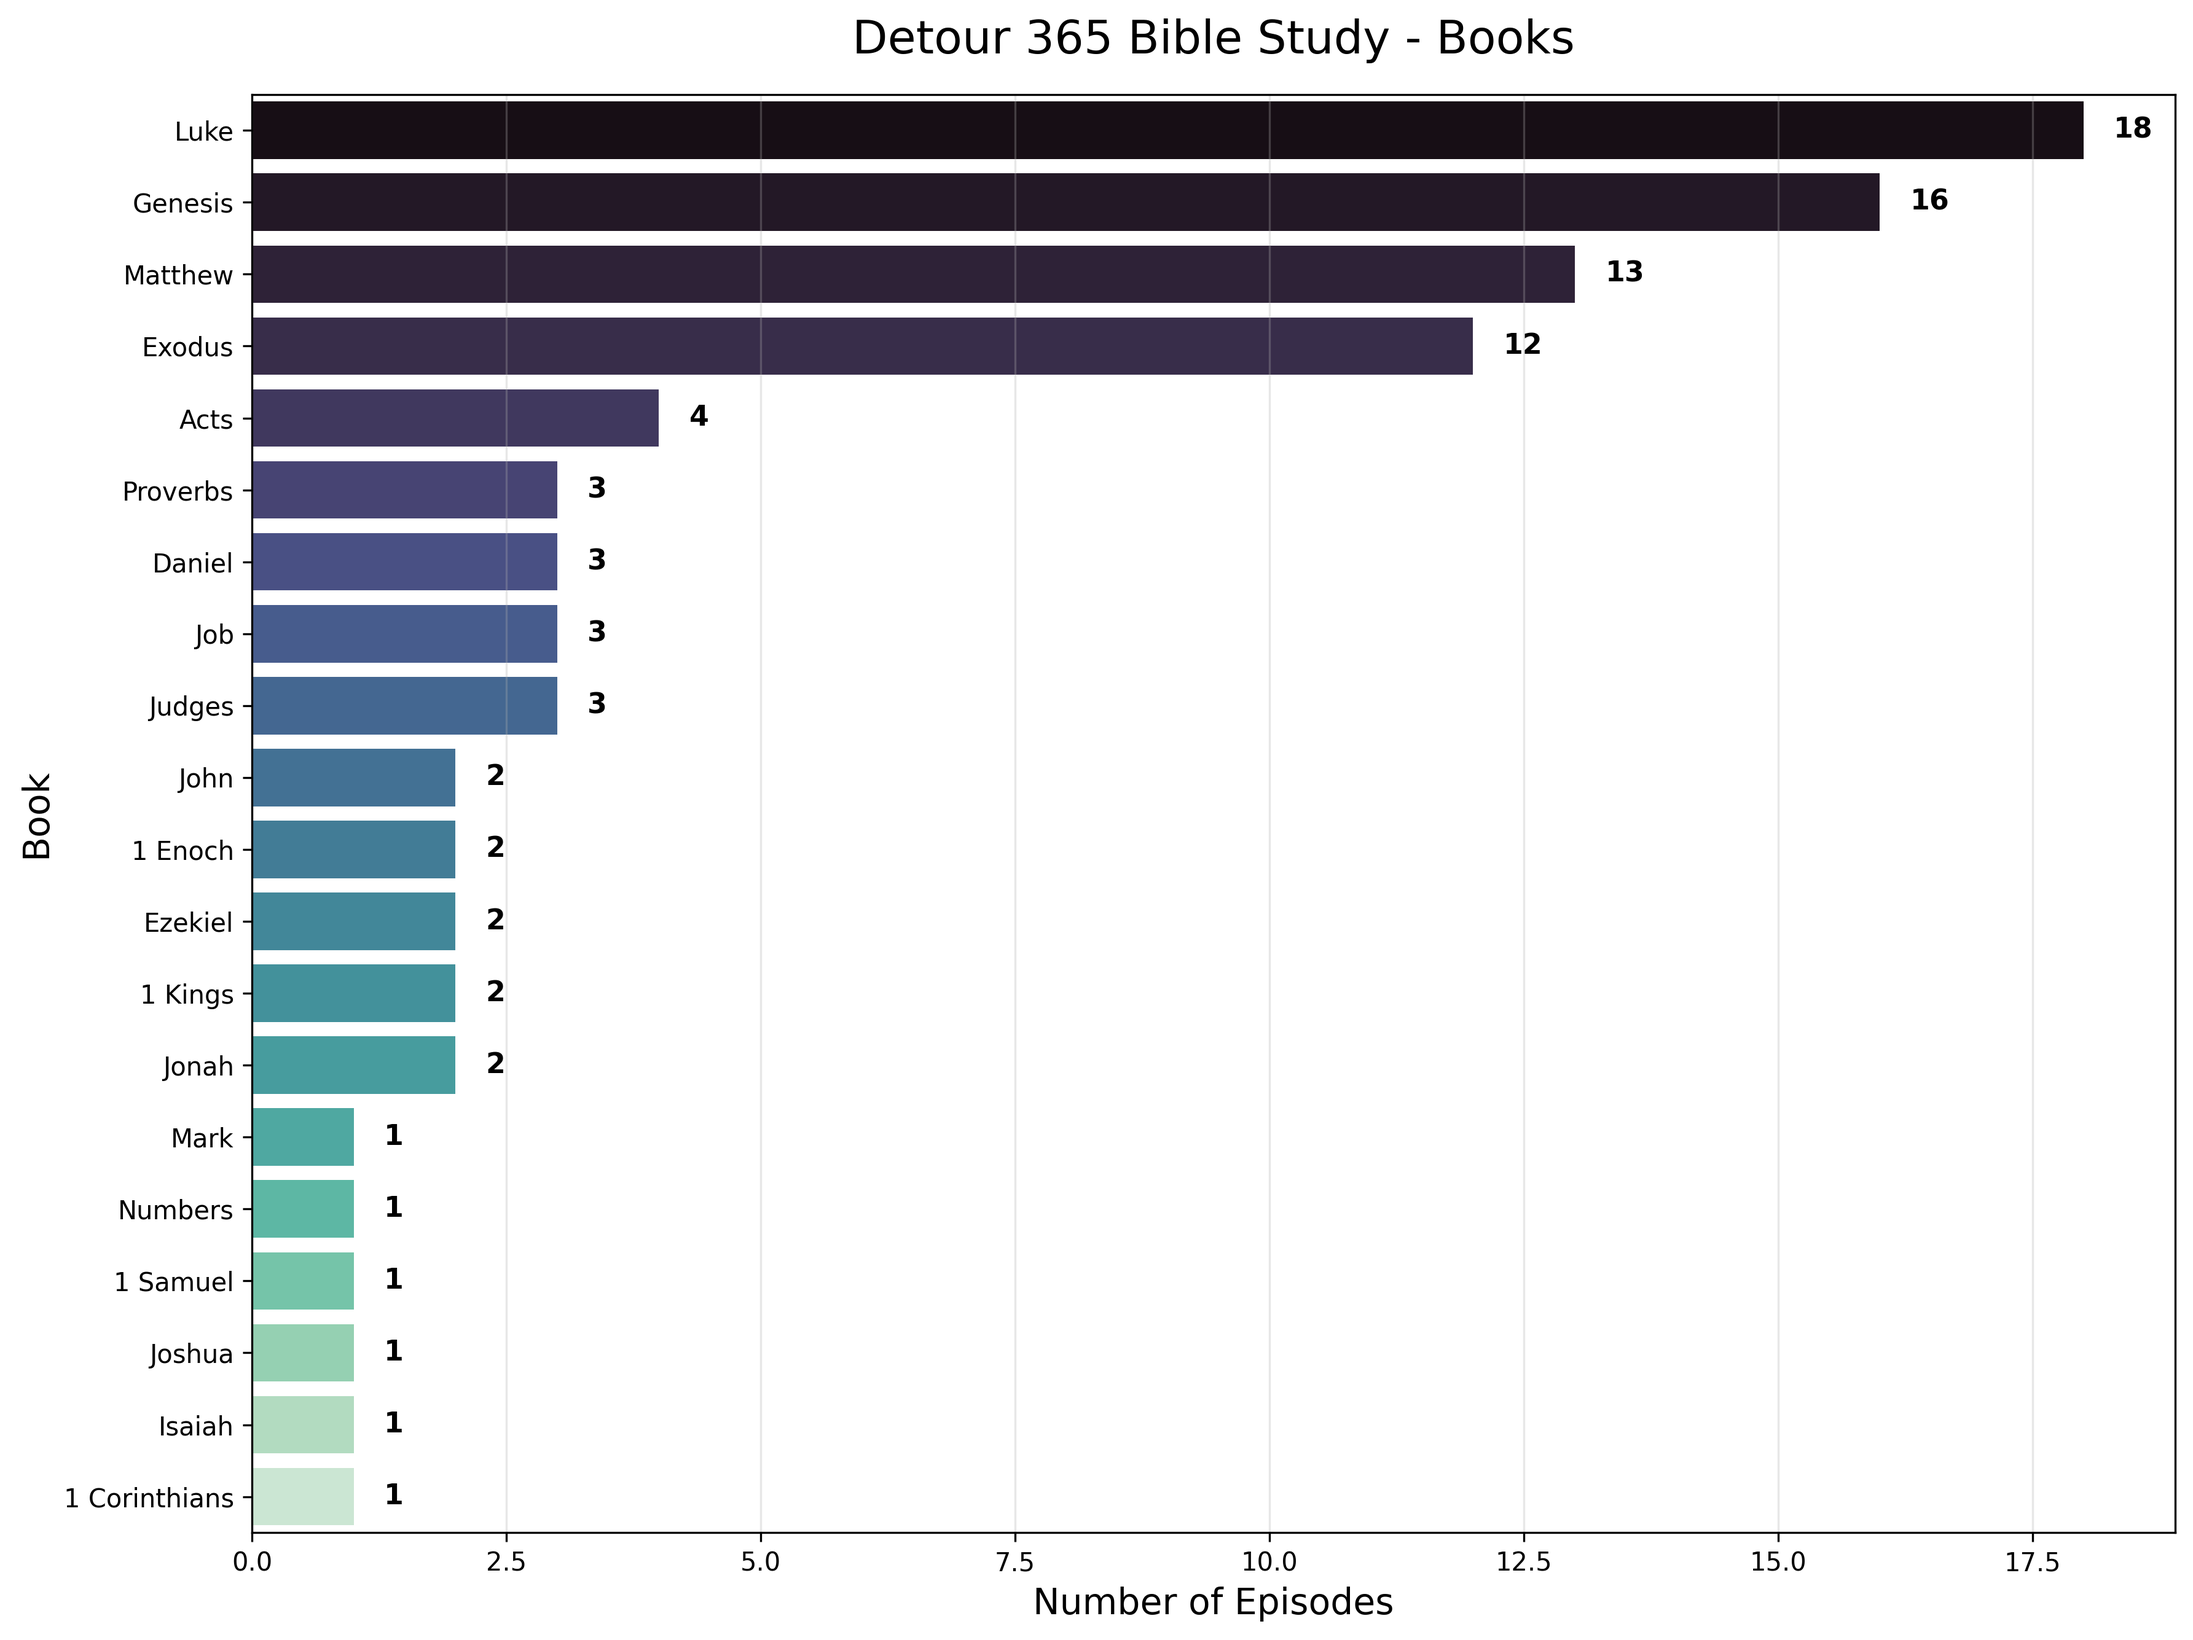
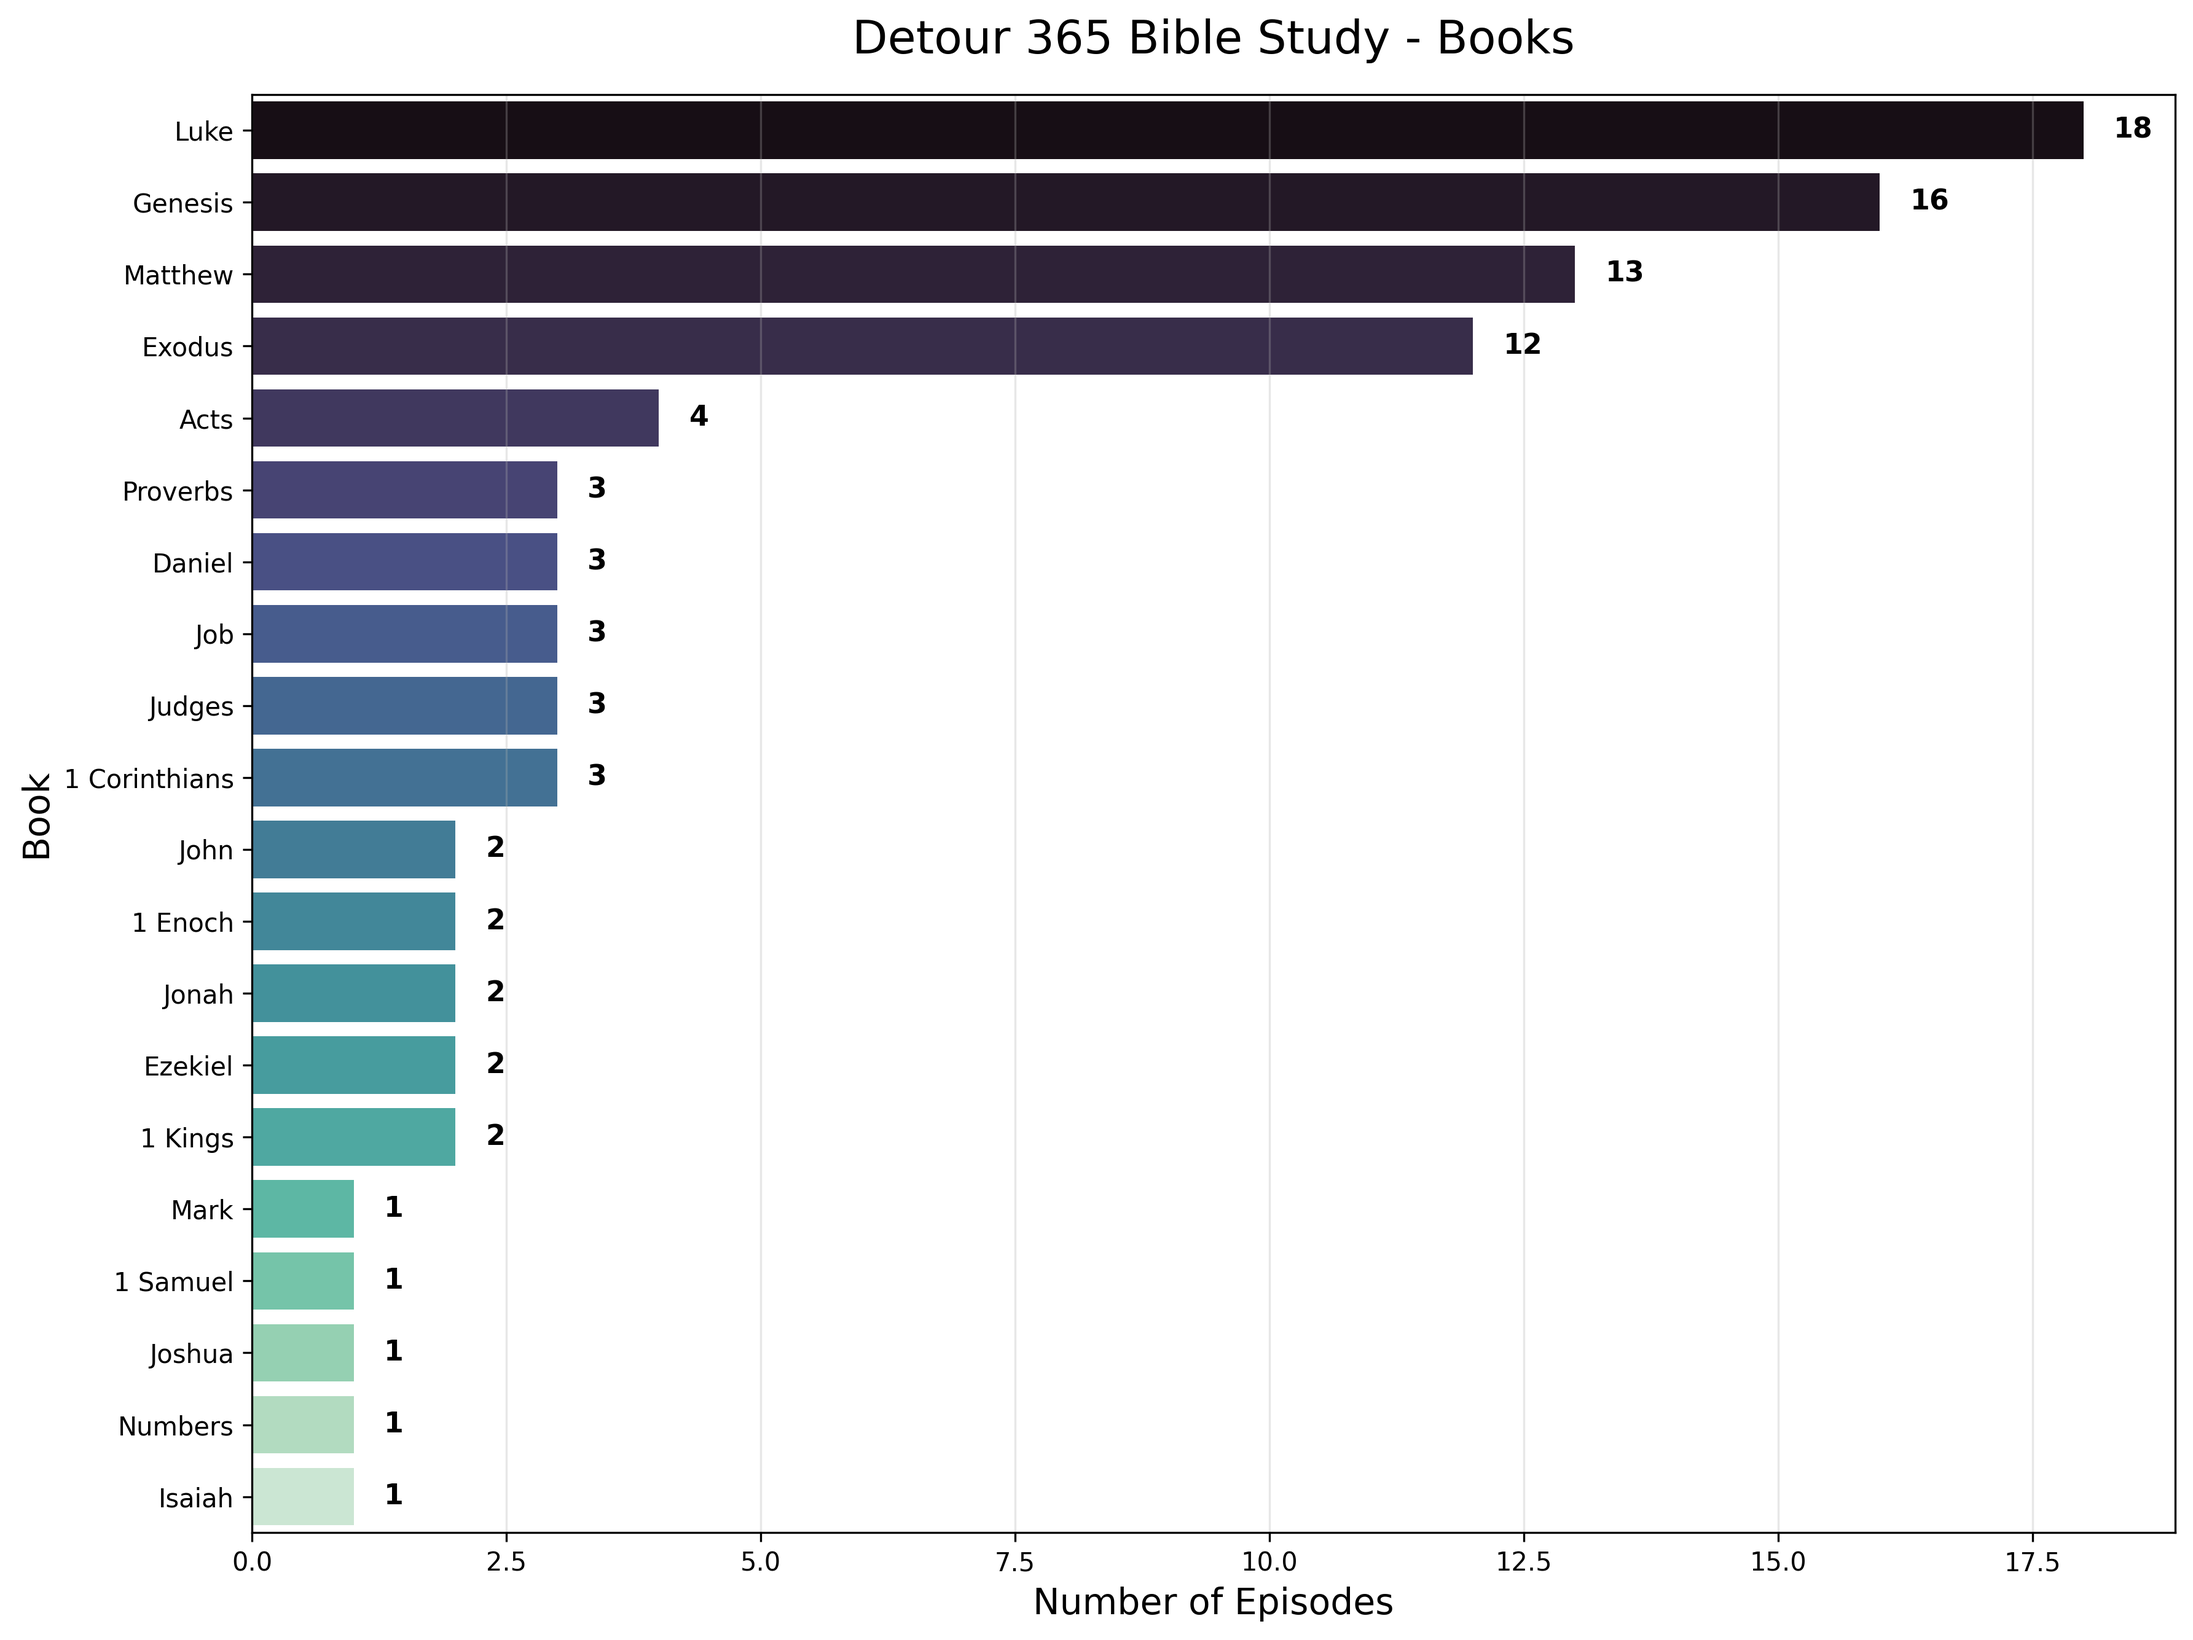
added total youtube views feature + created python/youtube_stats.py

diff --git a/js/stats.js b/js/stats.js
@@ -1,0 +1,26 @@
+/* js/stats.js */
+
+const total_youtube_views = document.getElementById('total_yt_views');
+
+export async function display_views() {
+    if (!total_youtube_views) return;
+
+    try {
+        const response = await fetch('data/d365_yt_stats.json');
+        if (!response.ok) {
+            throw new Error('Failed to load data');
+        }
+
+        const data = await response.json();
+        const views = Number(data.viewCount).toLocaleString();
+        total_youtube_views.textContent = `Total Youtube Views: ${views}`;
+    } catch (error) {
+        console.log(error);
+    }
+}
+
+if (document.readyState === 'loading') {
+    document.addEventListener('DOMContentLoaded', display_views);
+} else {
+    display_views();
+}

diff --git a/stats.html b/stats.html
@@ -37,6 +37,13 @@
  
     <main class="main-container">
         <div class="figure-group-div">
+            <div id="viewsDiv">
+                <ul>
+                    <li id="total_yt_views">Total YouTube Views: </li>
+                    <li id="total_website_view">Total Website View: </li>
+                    <li id="total_views">Total Views: </li>
+                </ul>
+            </div>
         <figure class="figure">
             <img
                 class="figure-image" 
@@ -70,6 +77,7 @@
 
 
 <script type="module" src="js/script.js"></script>
+<script type="module" src="js/stats.js"></script>
 
 
 </body>

diff --git a/python/stats.py b/python/stats.py
@@ -1,32 +1,42 @@
-import pandas as pd
+# python/stats/py
+
 import datetime as dt
+import os
 import re
-import matplotlib.pyplot as plt
-import seaborn as sns
 from pathlib import Path
+
+import matplotlib.pyplot as plt
+import pandas as pd
+import seaborn as sns
+from dotenv import load_dotenv
+
+from youtube_stats import YTstats
 
 
 class BibleStudyStats:
-    """Analyze Detour 365 podcast episodes and generate Bible book/category charts."""
+    """
+    - Analyze Detour 365 podcast episodes and generate Bible book/category charts.
+    - Engagement stats: fetch channel views from YouTube Data API.
+    """
 
     def __init__(
         self,
         podcast_path: str | Path = "../data/podcast.json",
         bible_path: str | Path = "../data/bible_books.csv",
+        yt_data_path: str | Path = "../data/d365_yt_stats.json",
         plots_dir: str | Path = "../plots",
     ):
-        # Resolve all paths relative to *this script file*
         script_dir = Path(__file__).resolve().parent
 
         self.podcast_path = (script_dir / podcast_path).resolve()
         self.bible_path = (script_dir / bible_path).resolve()
+        self.yt_data_path = (script_dir / yt_data_path).resolve()
         self.plots_dir = (script_dir / plots_dir).resolve()
-
-        # Create plots folder if it doesn't exist
         self.plots_dir.mkdir(parents=True, exist_ok=True)
 
         print(f"Podcast data : {self.podcast_path}")
         print(f"Bible data   : {self.bible_path}")
+        print(f"YouTube data : {self.yt_data_path}")
         print(f"Plots folder : {self.plots_dir}")
 
         if not self.podcast_path.exists():
@@ -38,13 +48,11 @@ class BibleStudyStats:
         self.bible_df = pd.read_csv(self.bible_path)
         self.podcast_df["date"] = pd.to_datetime(self.podcast_df["date"])
 
-        # Will be filled later
         self.current_saturday = None
         self.past_df = None
         self.enriched_df = None
 
     def _get_current_saturday(self) -> dt.datetime:
-        """Return the Saturday of the current week."""
         now = dt.datetime.now()
         days_to_saturday = 5 - now.weekday()
         self.current_saturday = now + dt.timedelta(days=days_to_saturday)
@@ -52,17 +60,18 @@ class BibleStudyStats:
         return self.current_saturday
 
     def _filter_past_and_current(self):
-        """Keep only episodes up to (and including) this week's Saturday."""
         self._get_current_saturday()
-        self.past_df = self.podcast_df[self.podcast_df["date"] <= self.current_saturday].copy()
+        self.past_df = self.podcast_df[
+            self.podcast_df["date"] <= self.current_saturday
+        ].copy()
 
     def _extract_books(self):
-        """Extract the Bible book name from the 'passage' column."""
-        pattern = "|".join([rf"\b{re.escape(book)}\b" for book in self.bible_df["book"]])
+        pattern = "|".join(
+            [rf"\b{re.escape(book)}\b" for book in self.bible_df["book"]]
+        )
         self.past_df["book"] = self.past_df["passage"].str.extract(f"({pattern})")
 
     def _merge_categories(self):
-        """Add category and testament information."""
         self.enriched_df = pd.merge(
             self.past_df[["id", "date", "title", "passage", "book"]],
             self.bible_df[["book", "category", "testament"]],
@@ -72,17 +81,15 @@ class BibleStudyStats:
 
     def _total_episodes(self):
         df = (
-        self.enriched_df
-        .sort_values("date")         
-        .reset_index(drop=True)
-        .copy()
+            self.enriched_df.sort_values("date")
+            .reset_index(drop=True)
+            .copy()
         )
         df["episode_count"] = df.index + 1
 
         plt.figure(figsize=(9, 7))
         plt.plot(df["date"], df["episode_count"])
         plt.tight_layout()
-
         plt.title("Total Episodes", fontsize=18, pad=16)
         plt.xlabel("Date (Year-Month)", fontsize=14)
         plt.ylabel("Episode Count", fontsize=14)
@@ -91,15 +98,20 @@ class BibleStudyStats:
         ax.spines["top"].set_visible(False)
         ax.spines["right"].set_visible(False)
 
-        # Save
-        filename = "episode_count.png"
-        full_path = self.plots_dir / filename
-        if full_path.exists():
-            print(f"{full_path} already exists and will be overwritten.")
+        full_path = self.plots_dir / "episode_count.png"
         plt.savefig(full_path, dpi=300, bbox_inches="tight")
-        plt.show()
-        
+        plt.close()
 
+    def _youtube_stats(self):
+        load_dotenv(Path(__file__).resolve().parent.parent / ".env")
+        api_key = os.getenv("D365_YOUTUBE_API_KEY")
+        if not api_key:
+            raise RuntimeError("Missing D365_YOUTUBE_API_KEY")
+
+        yt = YTstats(api_key, "UCgfVr2t5RBmkkuaWeKbWEvQ")
+        stats = yt.get_channel_statistics()
+        yt.dump(self.yt_data_path)
+        print("YouTube channel stats:", stats)
 
     def _plot_horizontal_bar(
         self,
@@ -109,7 +121,6 @@ class BibleStudyStats:
         filename: str | Path,
         top_n: int = 20,
     ):
-        """Reusable horizontal bar chart with value labels."""
         counts = series.value_counts().head(top_n).sort_values(ascending=False)
 
         plt.figure(figsize=(12, 9))
@@ -124,7 +135,6 @@ class BibleStudyStats:
         plt.xlabel("Number of Episodes", fontsize=14)
         plt.ylabel(ylabel, fontsize=14)
 
-        # Value labels
         for p in ax.patches:
             width = p.get_width()
             ax.text(
@@ -139,31 +149,23 @@ class BibleStudyStats:
         plt.grid(axis="x", alpha=0.3)
         plt.tight_layout()
 
-        # Save
         full_path = self.plots_dir / filename
-        if full_path.exists():
-            print(f"{full_path} already exists and will be overwritten.")
         plt.savefig(full_path, dpi=300, bbox_inches="tight")
-        plt.show()
+        plt.close()
 
     def update_stats(self):
-        """Main method – run the full pipeline."""
+        self._youtube_stats()
         self._filter_past_and_current()
         self._extract_books()
         self._merge_categories()
+        self._total_episodes()
 
-        # Line Chart of Total Episodes 
-        self._total_episodes()  
-
-        # Category chart
         self._plot_horizontal_bar(
             series=self.enriched_df["category"],
             title="Detour 365 Bible Study - Literary Types",
             ylabel="Literary Type",
             filename="category_counts.png",
         )
-
-        # Book chart
         self._plot_horizontal_bar(
             series=self.enriched_df["book"],
             title="Detour 365 Bible Study - Books",
@@ -171,7 +173,6 @@ class BibleStudyStats:
             filename="book_counts.png",
         )
 
-        
+
 if __name__ == "__main__":
-    stats = BibleStudyStats()
-    stats.update_stats()
+    BibleStudyStats().update_stats()

diff --git a/python/youtube_stats.py b/python/youtube_stats.py
@@ -1,0 +1,36 @@
+# python/youtube_stats.py
+
+import json
+from pathlib import Path
+
+import requests
+
+
+class YTstats:
+    def __init__(self, api_key, channel_id):
+        self.api_key = api_key
+        self.channel_id = channel_id
+        self.channel_statistics = None
+
+    def get_channel_statistics(self):
+        url = (
+            "https://www.googleapis.com/youtube/v3/channels"
+            f"?part=statistics&id={self.channel_id}&key={self.api_key}"
+        )
+        response = requests.get(url, timeout=30)
+        data = response.json()
+
+        if "error" in data:
+            raise RuntimeError(data["error"])
+
+        self.channel_statistics = data["items"][0]["statistics"]
+        return self.channel_statistics
+
+    def dump(self, file_path: Path):
+        if self.channel_statistics is None:
+            return
+
+        file_path.parent.mkdir(parents=True, exist_ok=True)
+        with open(file_path, "w") as f:
+            json.dump(self.channel_statistics, f, indent=4)
+        print(f"wrote {file_path}")
